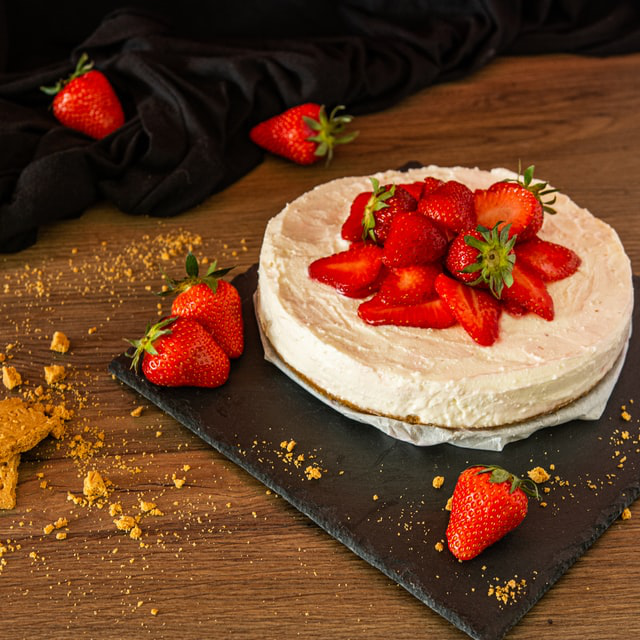
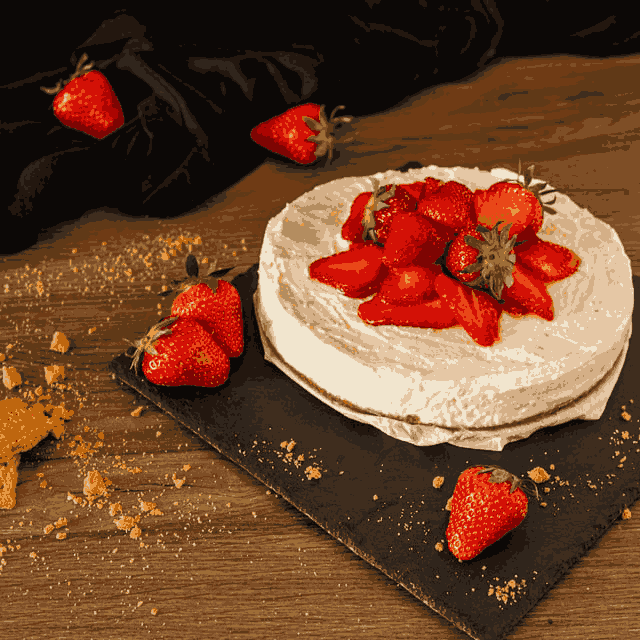
popup selection fixed + pngs size reduced

diff --git a/addons/point_of_sale/static/src/js/Chrome.js b/addons/point_of_sale/static/src/js/Chrome.js
@@ -393,20 +393,17 @@ odoo.define('point_of_sale.Chrome', function(require) {
                 {
                     id:"0",
                     label: this.env._t("Shop selling beautiful clothes"),
-                    item: false,
-                    argument: 'clothes',
+                    item: 'clothes',
                 },
                 {
                     id:"1",
                     label: this.env._t("Shop selling stylish furniture"),
-                    item: false,
-                    argument: 'furniture',
+                    item: 'furniture',
                 },
                 {
                     id:"2",
                     label: this.env._t("Bakery selling succulent breads and pastries"),
-                    item: false,
-                    argument: 'bakery',
+                    item: 'bakery',
                 },
             ]
             const { confirmed, payload: selectedOption } = await this.showPopup('SelectionPopup',
@@ -419,7 +416,7 @@ odoo.define('point_of_sale.Chrome', function(require) {
                 await this.rpc({
                     'route': '/pos/load_onboarding_data',
                     params: {
-                        arg: String(selectedOption) // Extract argument from selected option
+                        arg: selectedOption
                     },
                 });
                 const result = await this.rpc({
